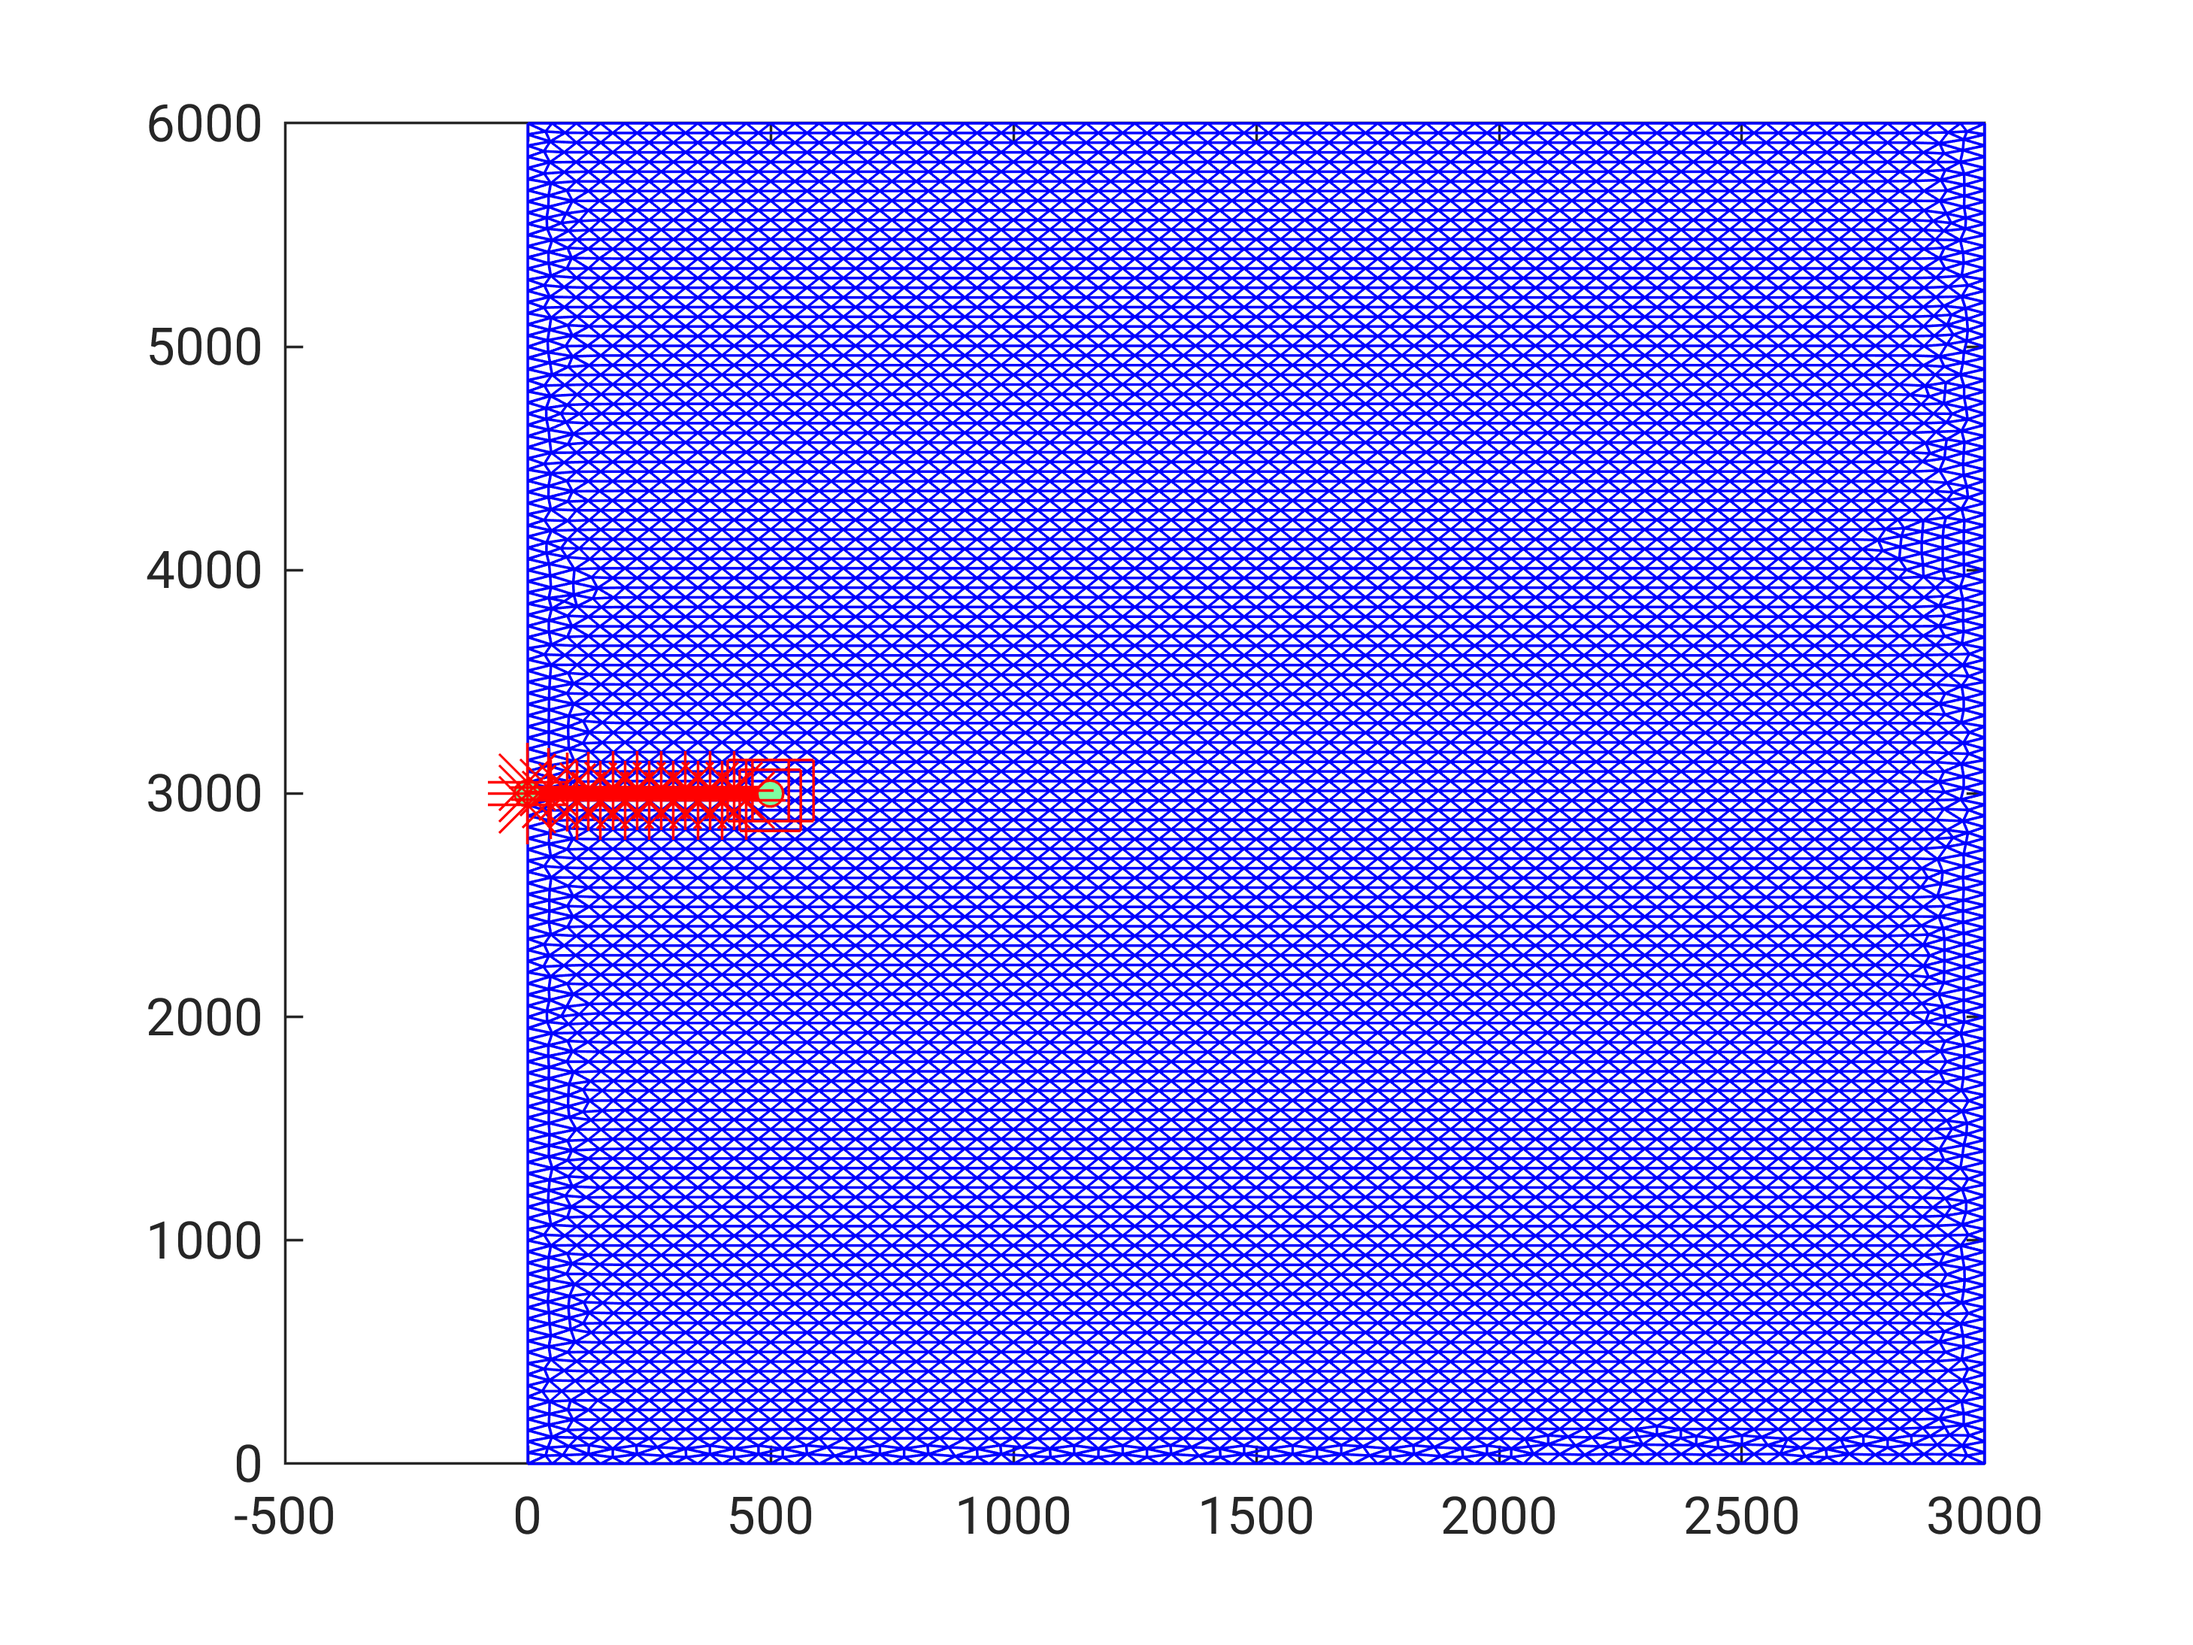
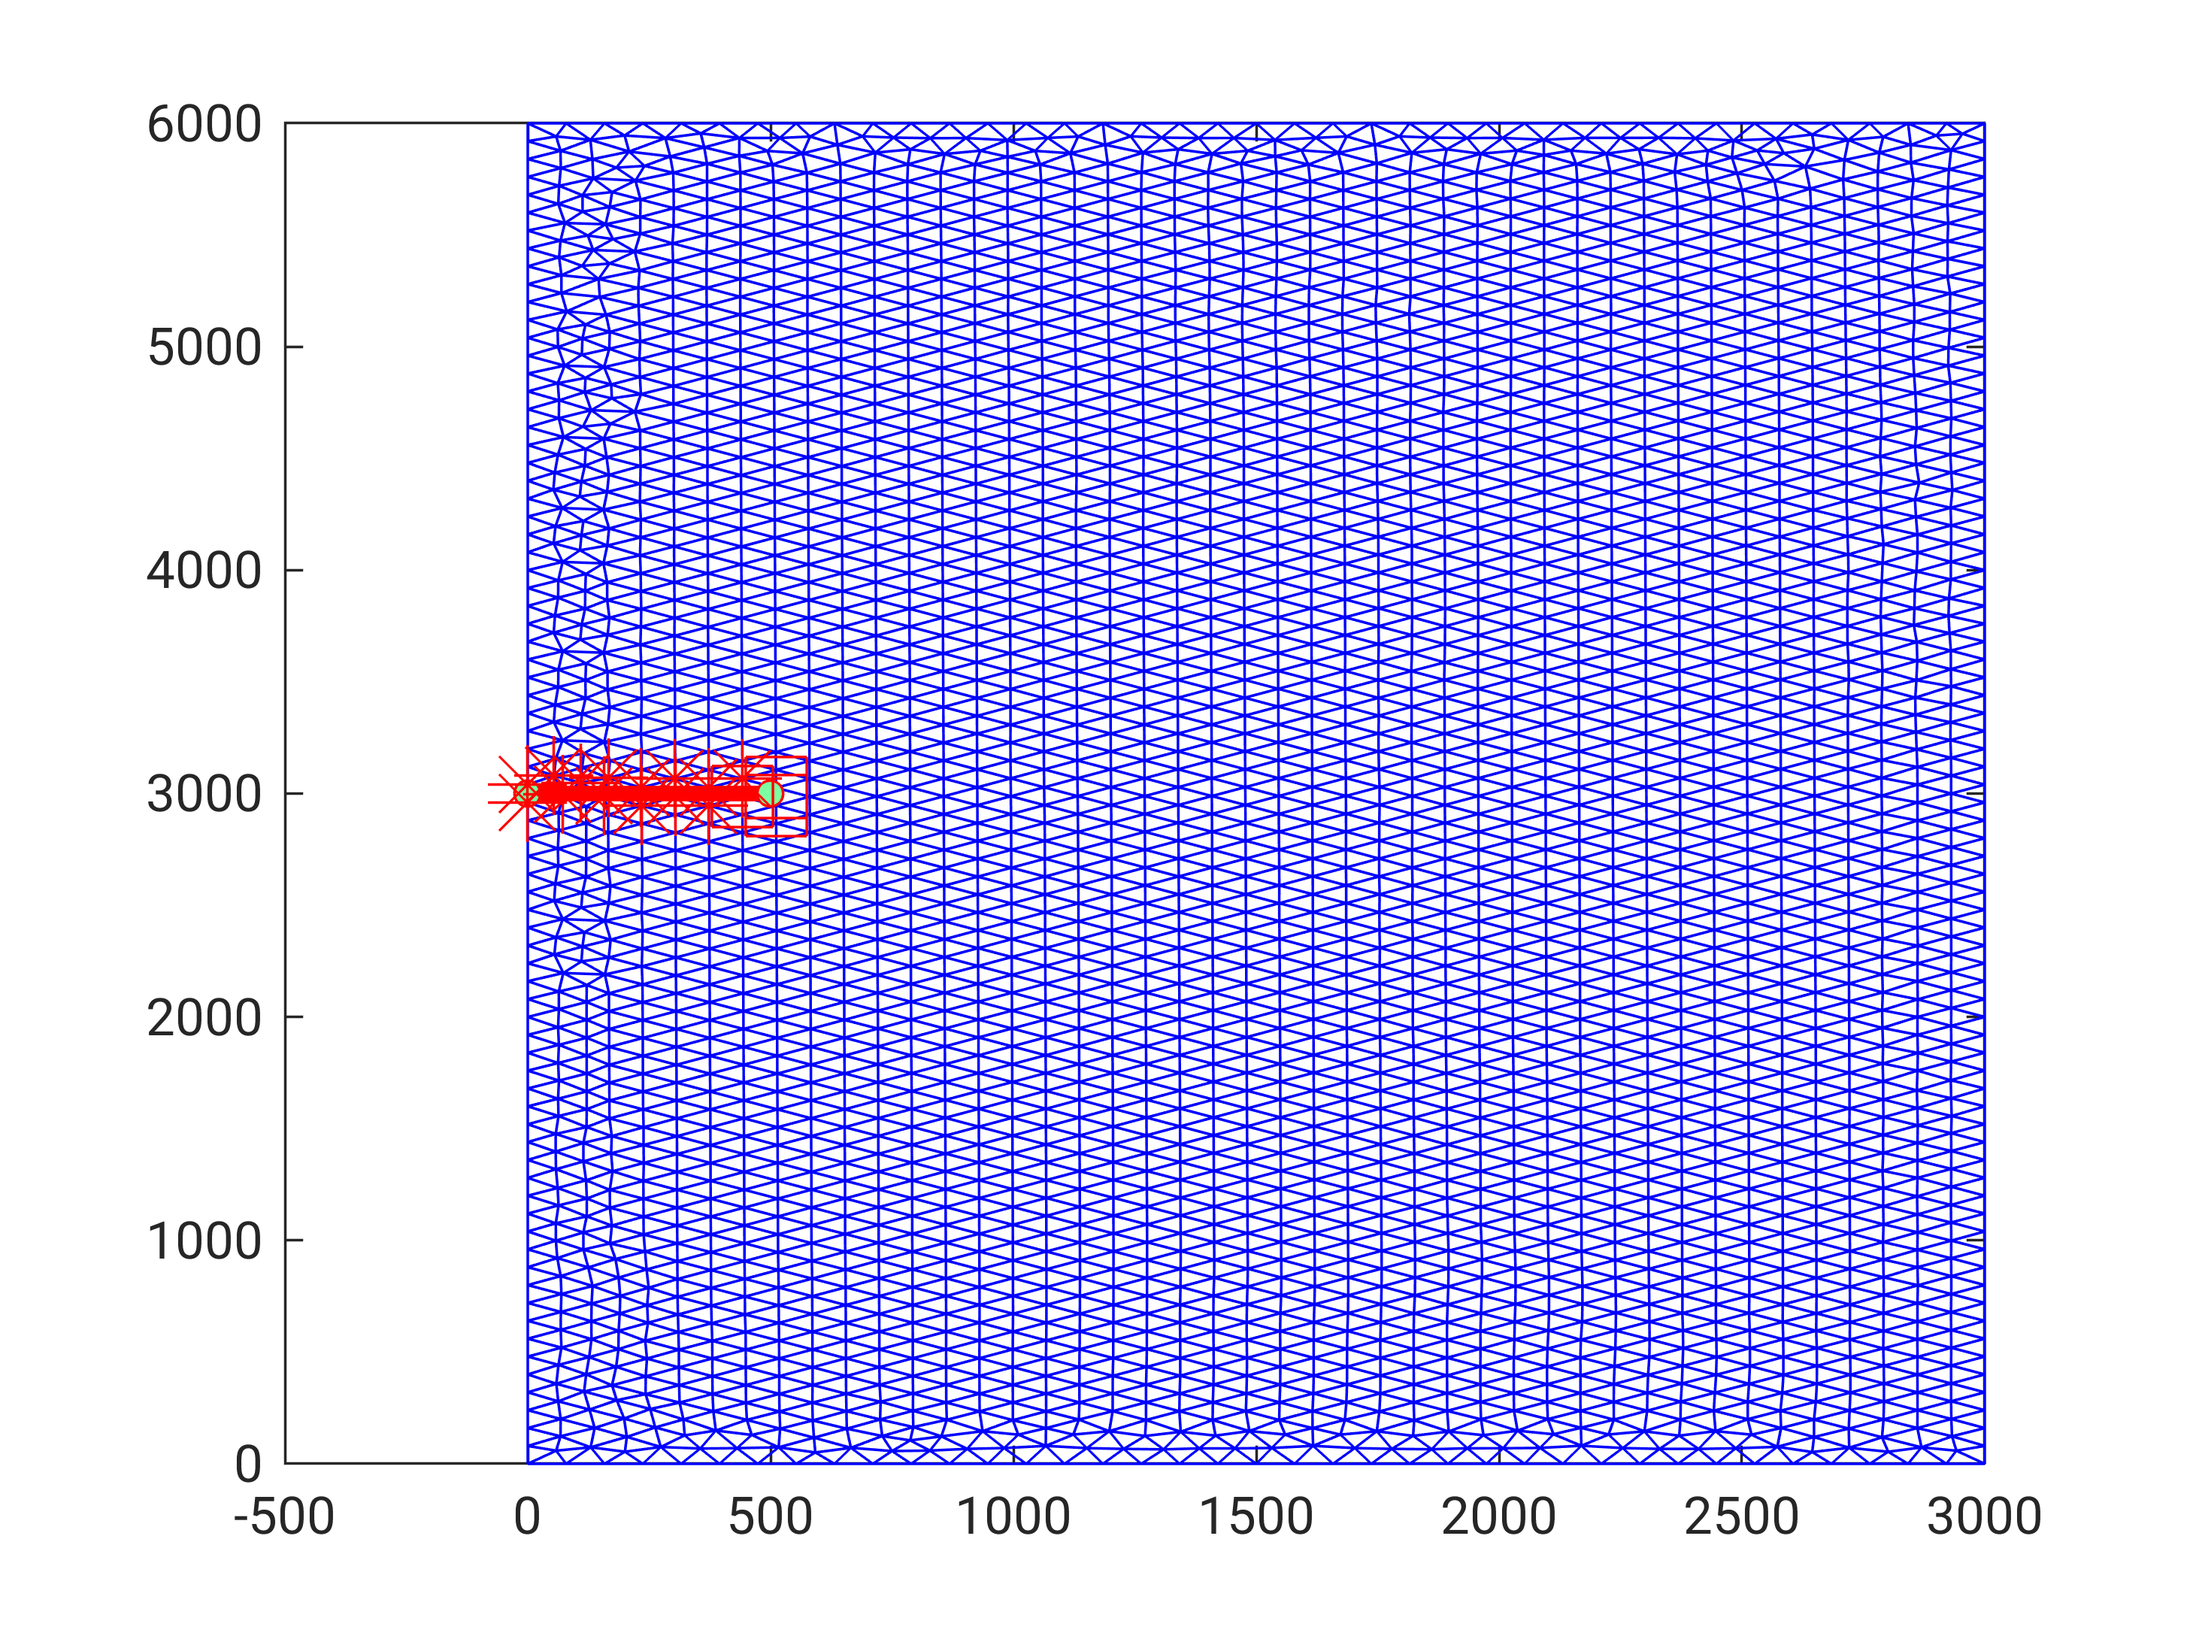
minor change working through bodyforces example

diff --git a/Routines_XFEM/KcalJint.m b/Routines_XFEM/KcalJint.m
@@ -14,6 +14,7 @@ stp1 = 0;
 stp2 = 0;
 
 % ThetaInc = [] ;
+kstr = [];
 for kk = 1:size(xCr,2) %what's the crack?
     disp([num2str(toc),'      Crack n. ',num2str(kk)])
     if ~isempty(Knumerical) ;
@@ -44,7 +45,7 @@ for kk = 1:size(xCr,2) %what's the crack?
         if flag1 == 1
             seg   = xCr(kk).coor(1,:) - xCr(kk).coor(2,:);
             alpha = atan2(seg(2),seg(1));
-            if strcmp(typeProblem,'ISSM')
+            if strcmp(typeProblem,'ISSM') || strcmp(typeProblem,'centerF')
               [Knum,theta_inc] = SIF_BF(C,1,iel,elem_crk,xCr,type_elem,...
                   enrich_node,crack_nodes,xVertex,pos,u,F,kk,alpha,tip_elem,split_elem,vertex_elem,corner_elem,tan_elem,elem_force) ;
             else
@@ -68,7 +69,7 @@ for kk = 1:size(xCr,2) %what's the crack?
             seg   = xCr(kk).coor(size(xCr(kk).coor,1),:) - xCr(kk).coor(size(xCr(kk).coor,1)-1,:);
             alpha = atan2(seg(2),seg(1)) ;
 
-            if strcmp(typeProblem,'ISSM')
+            if strcmp(typeProblem,'ISSM') || strcmp(typeProblem,'centerF')
               [Knum,theta_inc] = SIF_BF(C,2,iel,elem_crk,xCr,type_elem,...
                   enrich_node,crack_nodes,xVertex,pos,u,F,kk,alpha,tip_elem,split_elem,vertex_elem,corner_elem,tan_elem,elem_force) ;
             else

diff --git a/Routines_XFEM/ForceVector.m b/Routines_XFEM/ForceVector.m
@@ -51,6 +51,18 @@ elseif( strcmp(typeProblem,'centre') )
             f(sctry) = f(sctry) - N*sigmato*det(J0)*wt ;
         end
     end
+elseif( strcmp(typeProblem,'centreF') )
+    [W,Q] = quadrature(1,'TRIANGULAR',1) ;
+    for e = 1:size(element,1)
+        sctr = element(e,:) ;
+        sctry = sctr.*2;
+        for q = 1:size(W,1)
+            pt = Q(q,:) ; wt = W(q) ;
+            [N,dNdxi] = lagrange_basis(elemType,pt);  % element shape functions
+            J0 = node(sctr,:)'*dNdxi;                 % element Jacobian matrix
+            f(sctry) = f(sctry) - N*sigmato*det(J0)*wt ;
+        end
+    end
 elseif( strcmp(typeProblem,'eCrkShear') )
     topEdge = edgNodes{3} ;
     [W,Q] = quadrature(1,'GAUSS',1) ;

diff --git a/mainXFEM.m b/mainXFEM.m
@@ -242,7 +242,7 @@ for ipas = 1:npas
             bcdof = [bcdof 2*dispNodes(i)-1 2*dispNodes(i)] ;
             bcval = [bcval 0 0] ;
         end
-    elseif strcmp(typeProblem,'centre')
+    elseif strcmp(typeProblem,'centre') || strcmp(typeProblem,'centreF')
         dispNodes = unique([bcNodes{3}]) ;
         bcdof = [ ]; bcval = [ ];
         for i=1:length(dispNodes)
